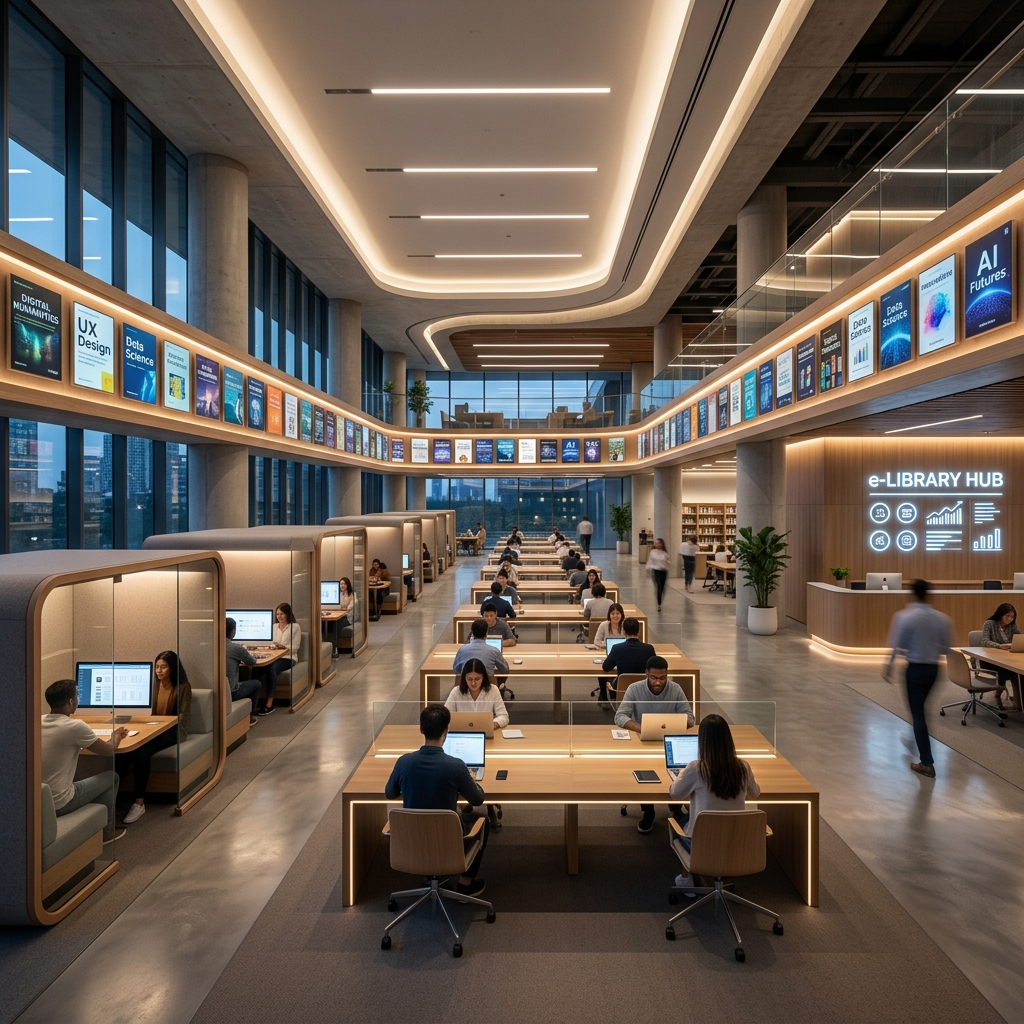
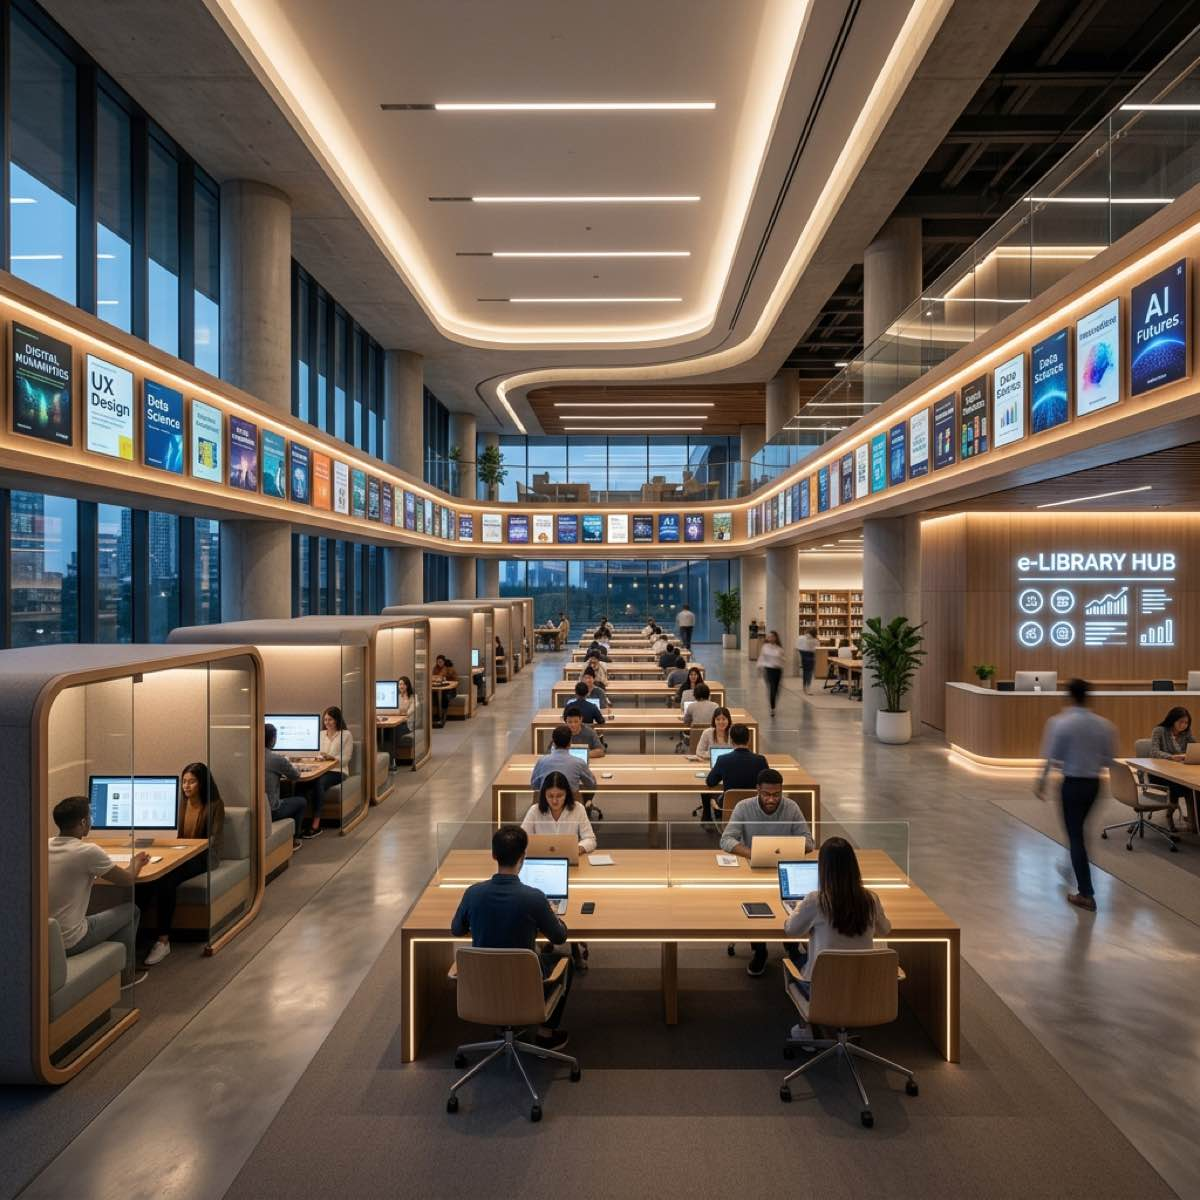
perf: compress assets and add proactive backend wakeup ping to counter cold starts

diff --git a/src/App.jsx b/src/App.jsx
@@ -78,6 +78,12 @@ export default function App() {
   const navigate = useNavigate();
   const location = useLocation();
 
+  // Proactive Backend Wakeup (Counter Cold-Starts)
+  useEffect(() => {
+    fetch(`${import.meta.env.VITE_API_URL || "http://localhost:5001"}/api/cron/trigger`)
+      .catch(() => {}); // Fire and forget
+  }, []);
+
   useEffect(() => {
     if (user && user.token) {
       try {